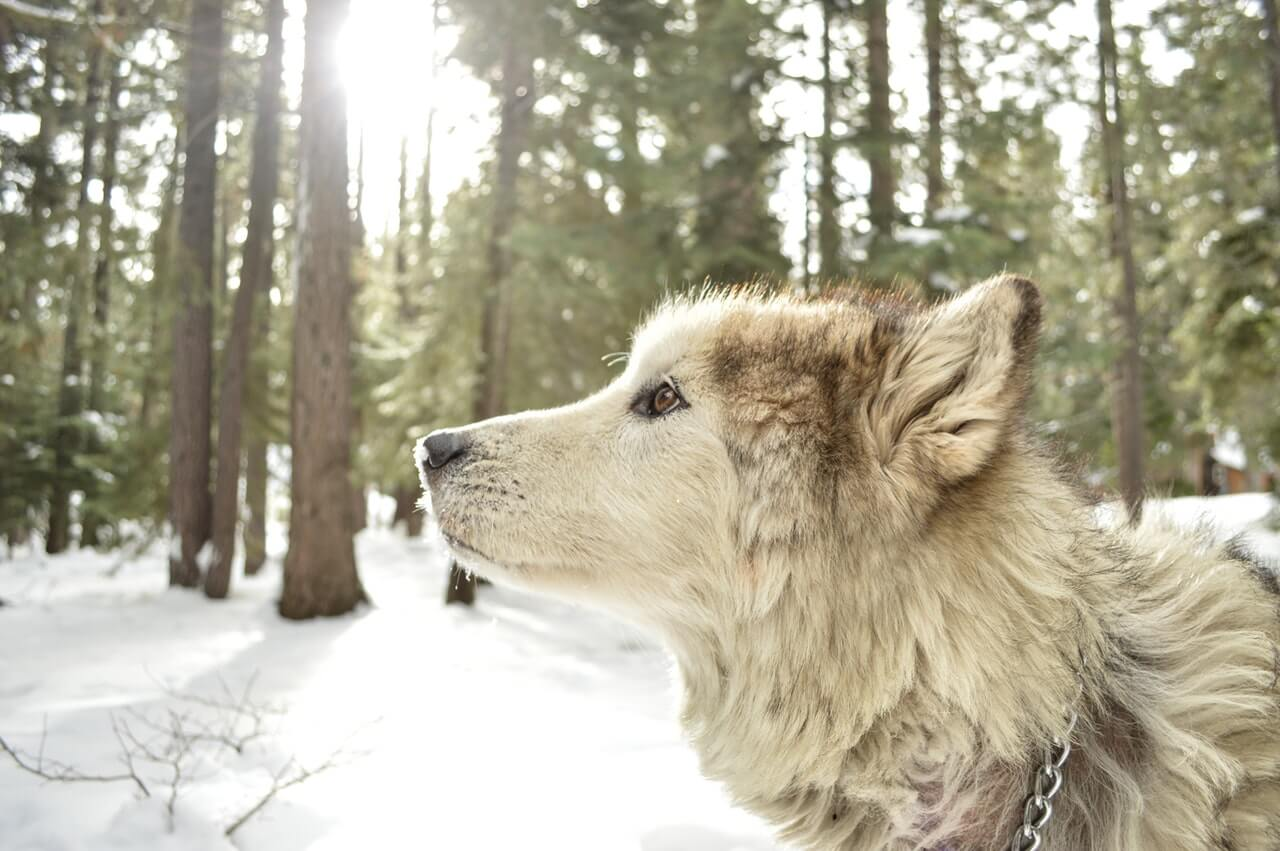
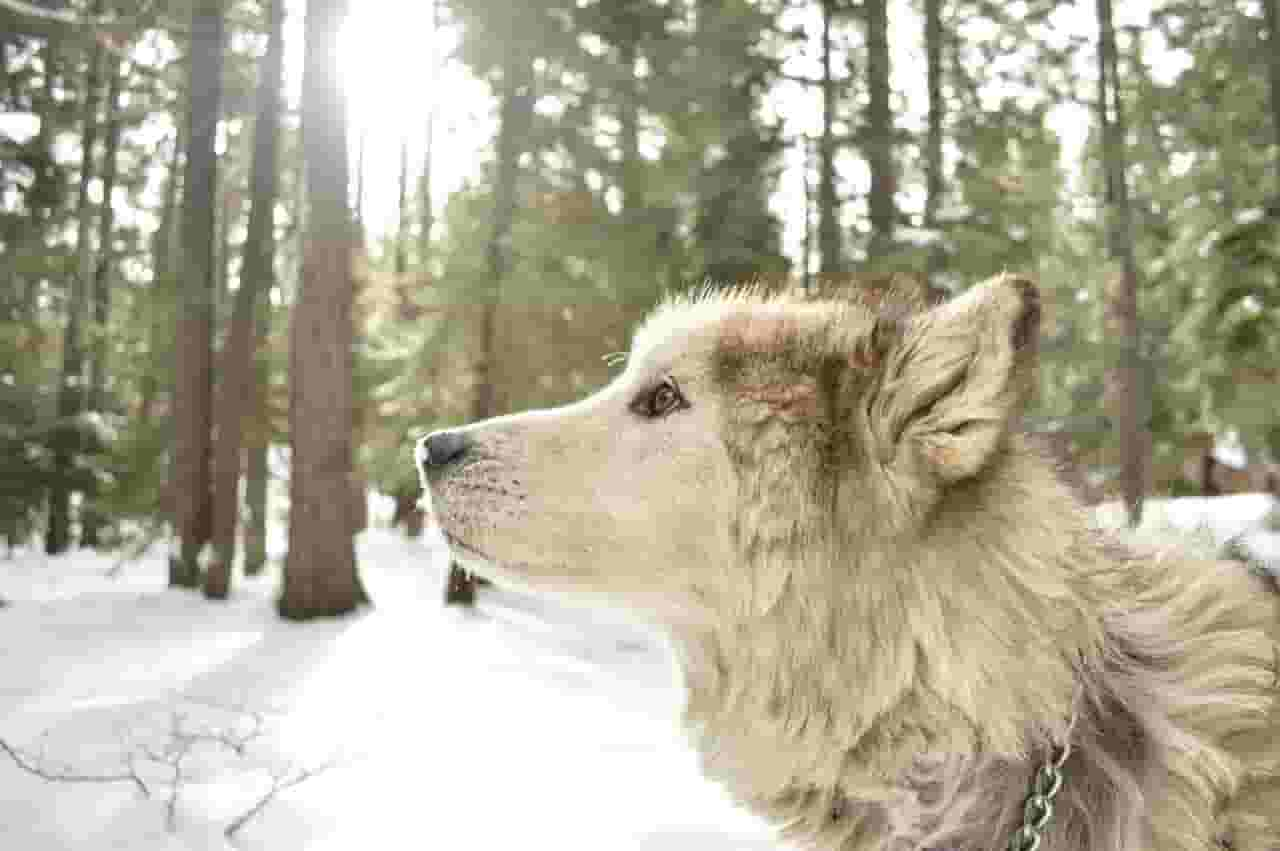
improved images

diff --git a/assets/css/index.css b/assets/css/index.css
@@ -1,4 +1,4 @@
-@import url("https://fonts.googleapis.com/css?family=Roboto");@import url("https://fonts.googleapis.com/css?family=Varela+Round");.pace{-webkit-pointer-events:none;pointer-events:none;-webkit-user-select:none;-moz-user-select:none;user-select:none}.pace-inactive{display:none}.pace .pace-progress{background:#408EDE;position:fixed;z-index:2000;top:0;right:100%;width:100%;height:2px}*:focus{outline:none}*{margin:0;padding:0}body{background-color:#ffffff}@font-face{font-family:"primelight";src:url("../fonts/primelight.otf")}@font-face{font-family:"trench";src:url("../fonts/trench100free.ttf")}#views{min-height:calc(100vh - 54px)}.nav-btn{background-color:transparent;color:rgba(160,160,160,0.5);outline:none;border:none;height:54px;width:20%;float:left;font-size:30px;text-align:center;border:solid 1px rgba(160,160,160,0.1)}.nav-bar{width:100%;height:54px;bottom:0;background-color:#202020;position:fixed;z-index:100}.nav-button-active{color:#fafafa}.inicio-logo{height:30vw;width:30vw;background-image:url("../img/wolf-transparent.png");background-position:center;background-size:contain;background-repeat:no-repeat;margin-left:35vw;margin-right:35vw;margin-top:55px;-moz-animation:bounce .70s linear;-webkit-animation:bounce .70s linear}.inicio-h1{text-align:center;font-family:arial;font-size:9vw;font-family:"trench";color:#202020}.inicio-h3{text-align:center;font-family:arial;font-size:3vw;font-family:"trench";color:#202020;margin-bottom:100px}.inicio-c{height:100vh;width:100%;position:absolute}.inicio-wallpaper{background-image:url("../img/wallpaper-1.jpg");background-position:center;background-repeat:no-repeat;background-size:cover;height:100%;width:100%;position:absolute;top:0;z-index:-1;opacity:0.3}.acerca-h1{color:white;font-size:54px;width:100%;text-align:center;background-color:#333333;font-family:"trench";height:54px}.acerca-h2{color:#353535;font-size:3vw;width:100%;text-align:center;font-family:'primelight';-moz-animation:bounce .40s linear;-webkit-animation:bounce .40s linear}.acerca-texto-1{color:#464646;font-family:arial;font-size:25px;width:100%;height:auto;text-align:justify;margin-top:5vh;margin-bottom:5vh;-moz-animation:bounce .40s linear;-webkit-animation:bounce .40s linear}.acerca-texto-2{color:#464646;font-family:arial;font-size:25px;width:100%;height:auto;text-align:justify;margin-top:5vh;margin-bottom:5vh;-moz-animation:bounce .40s linear;-webkit-animation:bounce .40s linear}.acerca-texto-3{color:#464646;font-family:arial;font-size:25px;width:100%;height:auto;text-align:justify;margin-top:5vh;margin-bottom:5vh;-moz-animation:bounce .40s linear;-webkit-animation:bounce .40s linear}.acerca-wallpaper{background-image:url("../img/wallpaper-2.jpg");background-position:center;background-repeat:no-repeat;background-size:cover;height:100%;width:100%;position:fixed;top:0;z-index:-1;opacity:0.3}.text-acerca-c{width:60%;height:auto;margin-left:20%;margin-right:20%}.portafolio-wallpaper{background-image:url("../img/wallpaper-3.jpeg");background-position:center;background-repeat:no-repeat;background-size:cover;height:100%;width:100%;position:fixed;top:0;z-index:-1;opacity:0.3}.portafolio-h1{color:white;font-size:54px;width:100%;text-align:center;background-color:#333333;font-family:"trench";height:54px}.webapp-portafolio{height:200px;width:25%;background-color:#333333;border-radius:5px;overflow:hidden;float:left;margin-left:6.25%;box-shadow:10px 5px 20px rgba(32,32,32,0.5)}.proyects-c{width:100%;margin-top:100px}.webapp-title{background-color:#408EDE;color:#fafafa;height:auto;font-size:20px;text-align:center;font-family:'Varela Round', sans-serif}.footer{height:200px;width:100%;background-color:#262626;-moz-box-shadow:rgba(0,0,0,0.8) 3px 3px 10px inset;-webkit-box-shadow:rgba(0,0,0,0.8) 3px 3px 10px inset;box-shadow:rgba(0,0,0,0.8) 3px 3px 10px inset;position:absolute}.section-1-footer{float:left;color:#a0a0a0;font-family:'Varela Round', sans-serif;height:100%;margin-left:10px}.h1-footer{font-size:20px;margin-top:30px;padding:10px}.text-footer{font-size:13px;outline:none;border:none;background-color:transparent;color:#a0a0a0;font-family:'Varela Round', sans-serif;padding:10px}.text-footer:hover{text-decoration:underline}@media (max-width: 768px){.inicio-logo{height:60vw;width:60vw;margin-left:20vw;margin-right:20vw;margin-top:7%}.inicio-h1{font-size:20vw}.inicio-h3{font-size:5vw}.acerca-h1{font-size:10vw;height:auto}.acerca-h2{font-size:10vw}.text-acerca-c{width:85%;height:auto;margin-left:7.5%;margin-right:7.5%}.portafolio-h1{font-size:10vw;height:auto}.webapp-portafolio{width:80%;margin-left:10%;margin-right:10%;margin-bottom:30px}.proyects-c{margin-bottom:300px;margin-top:50px}}/*! Modified from font-awesome helper CSS classes - PIXEDEN
+@import url("https://fonts.googleapis.com/css?family=Roboto");@import url("https://fonts.googleapis.com/css?family=Varela+Round");.pace{-webkit-pointer-events:none;pointer-events:none;-webkit-user-select:none;-moz-user-select:none;user-select:none}.pace-inactive{display:none}.pace .pace-progress{background:#408EDE;position:fixed;z-index:2000;top:0;right:100%;width:100%;height:2px}*:focus{outline:none}*{margin:0;padding:0}body{background-color:#ffffff}@font-face{font-family:"primelight";src:url("../fonts/primelight.otf")}@font-face{font-family:"trench";src:url("../fonts/trench100free.ttf")}#views{min-height:calc(100vh - 54px)}.nav-btn{background-color:transparent;color:rgba(160,160,160,0.5);outline:none;border:none;height:54px;width:20%;float:left;font-size:30px;text-align:center;border:solid 1px rgba(160,160,160,0.1)}.nav-bar{width:100%;height:54px;bottom:0;background-color:#202020;position:fixed;z-index:100}.nav-button-active{color:#fafafa}.inicio-logo{height:30vw;width:30vw;background-image:url("../img/wolf-transparent.png");background-position:center;background-size:contain;background-repeat:no-repeat;margin-left:35vw;margin-right:35vw;margin-top:55px;-moz-animation:bounce .70s linear;-webkit-animation:bounce .70s linear}.inicio-h1{text-align:center;font-family:arial;font-size:9vw;font-family:"trench";color:#202020}.inicio-h3{text-align:center;font-family:arial;font-size:3vw;font-family:"trench";color:#202020;margin-bottom:100px}.inicio-c{height:100vh;width:100%;position:absolute}.inicio-wallpaper{background-image:url("../img/wallpaper-1.jpg");background-position:center;background-repeat:no-repeat;background-size:cover;height:100%;width:100%;position:absolute;top:0;z-index:-1;opacity:0.3;filter:blur(3px)}.acerca-h1{color:white;font-size:54px;width:100%;text-align:center;background-color:#333333;font-family:"trench";height:54px}.acerca-h2{color:#353535;font-size:3vw;width:100%;text-align:center;font-family:'primelight';-moz-animation:bounce .40s linear;-webkit-animation:bounce .40s linear}.acerca-texto-1{color:#464646;font-family:arial;font-size:25px;width:100%;height:auto;text-align:justify;margin-top:5vh;margin-bottom:5vh;-moz-animation:bounce .40s linear;-webkit-animation:bounce .40s linear}.acerca-texto-2{color:#464646;font-family:arial;font-size:25px;width:100%;height:auto;text-align:justify;margin-top:5vh;margin-bottom:5vh;-moz-animation:bounce .40s linear;-webkit-animation:bounce .40s linear}.acerca-texto-3{color:#464646;font-family:arial;font-size:25px;width:100%;height:auto;text-align:justify;margin-top:5vh;margin-bottom:5vh;-moz-animation:bounce .40s linear;-webkit-animation:bounce .40s linear}.acerca-wallpaper{background-image:url("../img/wallpaper-2.jpg");background-position:center;background-repeat:no-repeat;background-size:cover;height:100%;width:100%;position:fixed;top:0;z-index:-1;opacity:0.3;filter:blur(3px)}.text-acerca-c{width:60%;height:auto;margin-left:20%;margin-right:20%}.portafolio-wallpaper{background-image:url("../img/wallpaper-3.jpeg");background-position:center;background-repeat:no-repeat;background-size:cover;height:100%;width:100%;position:fixed;top:0;z-index:-1;opacity:0.3;filter:blur(3px)}.portafolio-h1{color:white;font-size:54px;width:100%;text-align:center;background-color:#333333;font-family:"trench";height:54px}.webapp-portafolio{height:200px;width:25%;background-color:#333333;border-radius:5px;overflow:hidden;float:left;margin-left:6.25%;box-shadow:10px 5px 20px rgba(32,32,32,0.5)}.proyects-c{width:100%;margin-top:100px}.webapp-title{background-color:#408EDE;color:#fafafa;height:auto;font-size:20px;text-align:center;font-family:'Varela Round', sans-serif}.footer{height:200px;width:100%;background-color:#262626;-moz-box-shadow:rgba(0,0,0,0.8) 3px 3px 10px inset;-webkit-box-shadow:rgba(0,0,0,0.8) 3px 3px 10px inset;box-shadow:rgba(0,0,0,0.8) 3px 3px 10px inset;position:absolute}.section-1-footer{float:left;color:#a0a0a0;font-family:'Varela Round', sans-serif;height:100%;margin-left:10px}.h1-footer{font-size:20px;margin-top:30px;padding:10px}.text-footer{font-size:13px;outline:none;border:none;background-color:transparent;color:#a0a0a0;font-family:'Varela Round', sans-serif;padding:10px}.text-footer:hover{text-decoration:underline}@media (max-width: 768px){.inicio-logo{height:60vw;width:60vw;margin-left:20vw;margin-right:20vw;margin-top:7%}.inicio-h1{font-size:20vw}.inicio-h3{font-size:5vw}.acerca-h1{font-size:10vw;height:auto}.acerca-h2{font-size:10vw}.text-acerca-c{width:85%;height:auto;margin-left:7.5%;margin-right:7.5%}.portafolio-h1{font-size:10vw;height:auto}.webapp-portafolio{width:80%;margin-left:10%;margin-right:10%;margin-bottom:30px}.proyects-c{margin-bottom:300px;margin-top:50px}}/*! Modified from font-awesome helper CSS classes - PIXEDEN
  *  Font Awesome 4.0.3 by @davegandy - http://fontawesome.io - @fontawesome
  *  License - http://fontawesome.io/license (CSS: MIT License)
  */.pe-lg{font-size:1.3333333333333333em;line-height:0.75em;vertical-align:-15%}.pe-2x{font-size:2em}.pe-3x{font-size:3em}.pe-4x{font-size:4em}.pe-5x{font-size:5em}.pe-fw{width:1.2857142857142858em;text-align:center}.pe-ul{padding-left:0;margin-left:2.142857142857143em;list-style-type:none}.pe-ul>li{position:relative}.pe-li{position:absolute;left:-2.142857142857143em;width:2.142857142857143em;top:0.14285714285714285em;text-align:center}.pe-li.pe-lg{left:-1.8571428571428572em}.pe-border{padding:.2em .25em .15em;border:solid 0.08em #eeeeee;border-radius:.1em}.pull-right{float:right}.pull-left{float:left}.pe.pull-left{margin-right:.3em}.pe.pull-right{margin-left:.3em}.pe-spin{-webkit-animation:spin 2s infinite linear;-moz-animation:spin 2s infinite linear;-o-animation:spin 2s infinite linear;animation:spin 2s infinite linear}@-moz-keyframes spin{0%{-moz-transform:rotate(0deg)}100%{-moz-transform:rotate(359deg)}}@-webkit-keyframes spin{0%{-webkit-transform:rotate(0deg)}100%{-webkit-transform:rotate(359deg)}}@-o-keyframes spin{0%{-o-transform:rotate(0deg)}100%{-o-transform:rotate(359deg)}}@-ms-keyframes spin{0%{-ms-transform:rotate(0deg)}100%{-ms-transform:rotate(359deg)}}@keyframes spin{0%{transform:rotate(0deg)}100%{transform:rotate(359deg)}}.pe-rotate-90{filter:progid:DXImageTransform.Microsoft.BasicImage(rotation=1);-webkit-transform:rotate(90deg);-moz-transform:rotate(90deg);-ms-transform:rotate(90deg);-o-transform:rotate(90deg);transform:rotate(90deg)}.pe-rotate-180{filter:progid:DXImageTransform.Microsoft.BasicImage(rotation=2);-webkit-transform:rotate(180deg);-moz-transform:rotate(180deg);-ms-transform:rotate(180deg);-o-transform:rotate(180deg);transform:rotate(180deg)}.pe-rotate-270{filter:progid:DXImageTransform.Microsoft.BasicImage(rotation=3);-webkit-transform:rotate(270deg);-moz-transform:rotate(270deg);-ms-transform:rotate(270deg);-o-transform:rotate(270deg);transform:rotate(270deg)}.pe-flip-horizontal{filter:progid:DXImageTransform.Microsoft.BasicImage(rotation=0, mirror=1);-webkit-transform:scale(-1, 1);-moz-transform:scale(-1, 1);-ms-transform:scale(-1, 1);-o-transform:scale(-1, 1);transform:scale(-1, 1)}.pe-flip-vertical{filter:progid:DXImageTransform.Microsoft.BasicImage(rotation=2, mirror=1);-webkit-transform:scale(1, -1);-moz-transform:scale(1, -1);-ms-transform:scale(1, -1);-o-transform:scale(1, -1);transform:scale(1, -1)}.pe-stack{position:relative;display:inline-block;width:2em;height:2em;line-height:2em;vertical-align:middle}.pe-stack-1x,.pe-stack-2x{position:absolute;left:0;width:100%;text-align:center}.pe-stack-1x{line-height:inherit}.pe-stack-2x{font-size:2em}.pe-inverse{color:#ffffff}.pe-va{vertical-align:middle}.pe-border{border:solid 0.08em #eaeaea}[class^="pe-7s-"],[class*=" pe-7s-"]{display:inline-block}@font-face{font-family:'Pe-icon-7-stroke';src:url("../fonts/Pe-icon-7-stroke.eot?d7yf1v");src:url("../fonts/Pe-icon-7-stroke.eot?#iefixd7yf1v") format("embedded-opentype"),url("../fonts/Pe-icon-7-stroke.woff?d7yf1v") format("woff"),url("../fonts/Pe-icon-7-stroke.ttf?d7yf1v") format("truetype"),url("../fonts/Pe-icon-7-stroke.svg?d7yf1v#Pe-icon-7-stroke") format("svg");font-weight:normal;font-style:normal}[class^="pe-7s-"],[class*=" pe-7s-"]{display:inline-block;font-family:'Pe-icon-7-stroke';speak:none;font-style:normal;font-weight:normal;font-variant:normal;text-transform:none;line-height:1;-webkit-font-smoothing:antialiased;-moz-osx-font-smoothing:grayscale}.pe-7s-album:before{content:"\e6aa"}.pe-7s-arc:before{content:"\e6ab"}.pe-7s-back-2:before{content:"\e6ac"}.pe-7s-bandaid:before{content:"\e6ad"}.pe-7s-car:before{content:"\e6ae"}.pe-7s-diamond:before{content:"\e6af"}.pe-7s-door-lock:before{content:"\e6b0"}.pe-7s-eyedropper:before{content:"\e6b1"}.pe-7s-female:before{content:"\e6b2"}.pe-7s-gym:before{content:"\e6b3"}.pe-7s-hammer:before{content:"\e6b4"}.pe-7s-headphones:before{content:"\e6b5"}.pe-7s-helm:before{content:"\e6b6"}.pe-7s-hourglass:before{content:"\e6b7"}.pe-7s-leaf:before{content:"\e6b8"}.pe-7s-magic-wand:before{content:"\e6b9"}.pe-7s-male:before{content:"\e6ba"}.pe-7s-map-2:before{content:"\e6bb"}.pe-7s-next-2:before{content:"\e6bc"}.pe-7s-paint-bucket:before{content:"\e6bd"}.pe-7s-pendrive:before{content:"\e6be"}.pe-7s-photo:before{content:"\e6bf"}.pe-7s-piggy:before{content:"\e6c0"}.pe-7s-plugin:before{content:"\e6c1"}.pe-7s-refresh-2:before{content:"\e6c2"}.pe-7s-rocket:before{content:"\e6c3"}.pe-7s-settings:before{content:"\e6c4"}.pe-7s-shield:before{content:"\e6c5"}.pe-7s-smile:before{content:"\e6c6"}.pe-7s-usb:before{content:"\e6c7"}.pe-7s-vector:before{content:"\e6c8"}.pe-7s-wine:before{content:"\e6c9"}.pe-7s-cloud-upload:before{content:"\e68a"}.pe-7s-cash:before{content:"\e68c"}.pe-7s-close:before{content:"\e680"}.pe-7s-bluetooth:before{content:"\e68d"}.pe-7s-cloud-download:before{content:"\e68b"}.pe-7s-way:before{content:"\e68e"}.pe-7s-close-circle:before{content:"\e681"}.pe-7s-id:before{content:"\e68f"}.pe-7s-angle-up:before{content:"\e682"}.pe-7s-wristwatch:before{content:"\e690"}.pe-7s-angle-up-circle:before{content:"\e683"}.pe-7s-world:before{content:"\e691"}.pe-7s-angle-right:before{content:"\e684"}.pe-7s-volume:before{content:"\e692"}.pe-7s-angle-right-circle:before{content:"\e685"}.pe-7s-users:before{content:"\e693"}.pe-7s-angle-left:before{content:"\e686"}.pe-7s-user-female:before{content:"\e694"}.pe-7s-angle-left-circle:before{content:"\e687"}.pe-7s-up-arrow:before{content:"\e695"}.pe-7s-angle-down:before{content:"\e688"}.pe-7s-switch:before{content:"\e696"}.pe-7s-angle-down-circle:before{content:"\e689"}.pe-7s-scissors:before{content:"\e697"}.pe-7s-wallet:before{content:"\e600"}.pe-7s-safe:before{content:"\e698"}.pe-7s-volume2:before{content:"\e601"}.pe-7s-volume1:before{content:"\e602"}.pe-7s-voicemail:before{content:"\e603"}.pe-7s-video:before{content:"\e604"}.pe-7s-user:before{content:"\e605"}.pe-7s-upload:before{content:"\e606"}.pe-7s-unlock:before{content:"\e607"}.pe-7s-umbrella:before{content:"\e608"}.pe-7s-trash:before{content:"\e609"}.pe-7s-tools:before{content:"\e60a"}.pe-7s-timer:before{content:"\e60b"}.pe-7s-ticket:before{content:"\e60c"}.pe-7s-target:before{content:"\e60d"}.pe-7s-sun:before{content:"\e60e"}.pe-7s-study:before{content:"\e60f"}.pe-7s-stopwatch:before{content:"\e610"}.pe-7s-star:before{content:"\e611"}.pe-7s-speaker:before{content:"\e612"}.pe-7s-signal:before{content:"\e613"}.pe-7s-shuffle:before{content:"\e614"}.pe-7s-shopbag:before{content:"\e615"}.pe-7s-share:before{content:"\e616"}.pe-7s-server:before{content:"\e617"}.pe-7s-search:before{content:"\e618"}.pe-7s-film:before{content:"\e6a5"}.pe-7s-science:before{content:"\e619"}.pe-7s-disk:before{content:"\e6a6"}.pe-7s-ribbon:before{content:"\e61a"}.pe-7s-repeat:before{content:"\e61b"}.pe-7s-refresh:before{content:"\e61c"}.pe-7s-add-user:before{content:"\e6a9"}.pe-7s-refresh-cloud:before{content:"\e61d"}.pe-7s-paperclip:before{content:"\e69c"}.pe-7s-radio:before{content:"\e61e"}.pe-7s-note2:before{content:"\e69d"}.pe-7s-print:before{content:"\e61f"}.pe-7s-network:before{content:"\e69e"}.pe-7s-prev:before{content:"\e620"}.pe-7s-mute:before{content:"\e69f"}.pe-7s-power:before{content:"\e621"}.pe-7s-medal:before{content:"\e6a0"}.pe-7s-portfolio:before{content:"\e622"}.pe-7s-like2:before{content:"\e6a1"}.pe-7s-plus:before{content:"\e623"}.pe-7s-left-arrow:before{content:"\e6a2"}.pe-7s-play:before{content:"\e624"}.pe-7s-key:before{content:"\e6a3"}.pe-7s-plane:before{content:"\e625"}.pe-7s-joy:before{content:"\e6a4"}.pe-7s-photo-gallery:before{content:"\e626"}.pe-7s-pin:before{content:"\e69b"}.pe-7s-phone:before{content:"\e627"}.pe-7s-plug:before{content:"\e69a"}.pe-7s-pen:before{content:"\e628"}.pe-7s-right-arrow:before{content:"\e699"}.pe-7s-paper-plane:before{content:"\e629"}.pe-7s-delete-user:before{content:"\e6a7"}.pe-7s-paint:before{content:"\e62a"}.pe-7s-bottom-arrow:before{content:"\e6a8"}.pe-7s-notebook:before{content:"\e62b"}.pe-7s-note:before{content:"\e62c"}.pe-7s-next:before{content:"\e62d"}.pe-7s-news-paper:before{content:"\e62e"}.pe-7s-musiclist:before{content:"\e62f"}.pe-7s-music:before{content:"\e630"}.pe-7s-mouse:before{content:"\e631"}.pe-7s-more:before{content:"\e632"}.pe-7s-moon:before{content:"\e633"}.pe-7s-monitor:before{content:"\e634"}.pe-7s-micro:before{content:"\e635"}.pe-7s-menu:before{content:"\e636"}.pe-7s-map:before{content:"\e637"}.pe-7s-map-marker:before{content:"\e638"}.pe-7s-mail:before{content:"\e639"}.pe-7s-mail-open:before{content:"\e63a"}.pe-7s-mail-open-file:before{content:"\e63b"}.pe-7s-magnet:before{content:"\e63c"}.pe-7s-loop:before{content:"\e63d"}.pe-7s-look:before{content:"\e63e"}.pe-7s-lock:before{content:"\e63f"}.pe-7s-lintern:before{content:"\e640"}.pe-7s-link:before{content:"\e641"}.pe-7s-like:before{content:"\e642"}.pe-7s-light:before{content:"\e643"}.pe-7s-less:before{content:"\e644"}.pe-7s-keypad:before{content:"\e645"}.pe-7s-junk:before{content:"\e646"}.pe-7s-info:before{content:"\e647"}.pe-7s-home:before{content:"\e648"}.pe-7s-help2:before{content:"\e649"}.pe-7s-help1:before{content:"\e64a"}.pe-7s-graph3:before{content:"\e64b"}.pe-7s-graph2:before{content:"\e64c"}.pe-7s-graph1:before{content:"\e64d"}.pe-7s-graph:before{content:"\e64e"}.pe-7s-global:before{content:"\e64f"}.pe-7s-gleam:before{content:"\e650"}.pe-7s-glasses:before{content:"\e651"}.pe-7s-gift:before{content:"\e652"}.pe-7s-folder:before{content:"\e653"}.pe-7s-flag:before{content:"\e654"}.pe-7s-filter:before{content:"\e655"}.pe-7s-file:before{content:"\e656"}.pe-7s-expand1:before{content:"\e657"}.pe-7s-exapnd2:before{content:"\e658"}.pe-7s-edit:before{content:"\e659"}.pe-7s-drop:before{content:"\e65a"}.pe-7s-drawer:before{content:"\e65b"}.pe-7s-download:before{content:"\e65c"}.pe-7s-display2:before{content:"\e65d"}.pe-7s-display1:before{content:"\e65e"}.pe-7s-diskette:before{content:"\e65f"}.pe-7s-date:before{content:"\e660"}.pe-7s-cup:before{content:"\e661"}.pe-7s-culture:before{content:"\e662"}.pe-7s-crop:before{content:"\e663"}.pe-7s-credit:before{content:"\e664"}.pe-7s-copy-file:before{content:"\e665"}.pe-7s-config:before{content:"\e666"}.pe-7s-compass:before{content:"\e667"}.pe-7s-comment:before{content:"\e668"}.pe-7s-coffee:before{content:"\e669"}.pe-7s-cloud:before{content:"\e66a"}.pe-7s-clock:before{content:"\e66b"}.pe-7s-check:before{content:"\e66c"}.pe-7s-chat:before{content:"\e66d"}.pe-7s-cart:before{content:"\e66e"}.pe-7s-camera:before{content:"\e66f"}.pe-7s-call:before{content:"\e670"}.pe-7s-calculator:before{content:"\e671"}.pe-7s-browser:before{content:"\e672"}.pe-7s-box2:before{content:"\e673"}.pe-7s-box1:before{content:"\e674"}.pe-7s-bookmarks:before{content:"\e675"}.pe-7s-bicycle:before{content:"\e676"}.pe-7s-bell:before{content:"\e677"}.pe-7s-battery:before{content:"\e678"}.pe-7s-ball:before{content:"\e679"}.pe-7s-back:before{content:"\e67a"}.pe-7s-attention:before{content:"\e67b"}.pe-7s-anchor:before{content:"\e67c"}.pe-7s-albums:before{content:"\e67d"}.pe-7s-alarm:before{content:"\e67e"}.pe-7s-airplay:before{content:"\e67f"}

diff --git a/assets/scss/partials/_acerca.scss b/assets/scss/partials/_acerca.scss
@@ -67,6 +67,7 @@
   top: 0;
   z-index: -1;
   opacity: 0.3;
+  filter: blur(3px);
 }
 
 

diff --git a/assets/scss/partials/_inicio.scss b/assets/scss/partials/_inicio.scss
@@ -47,5 +47,5 @@
   top: 0;
   z-index: -1;
   opacity: 0.3;
-
+  filter: blur(3px);
 }

diff --git a/assets/scss/partials/_portafolio.scss b/assets/scss/partials/_portafolio.scss
@@ -9,6 +9,7 @@
   top: 0;
   z-index: -1;
   opacity: 0.3;
+  filter: blur(3px);
 }
 
 
